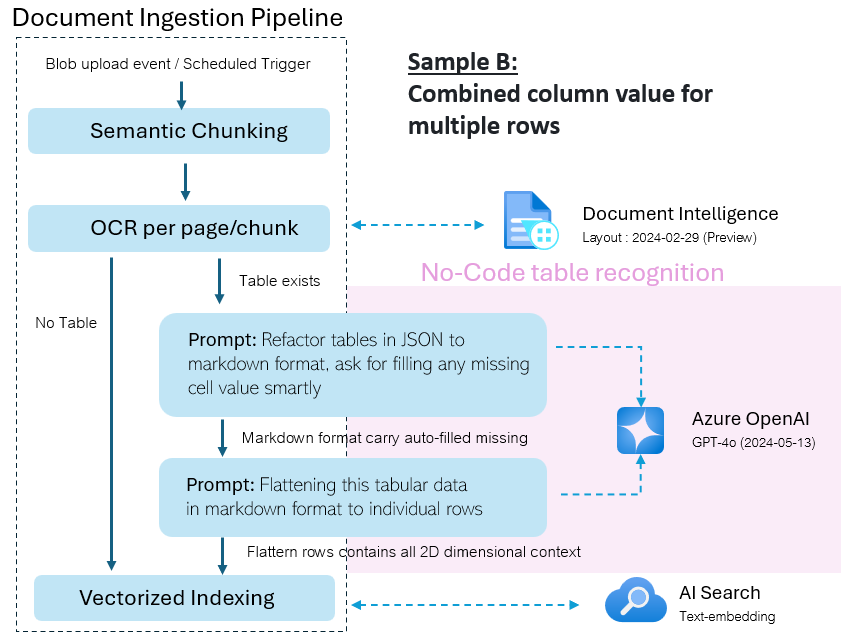
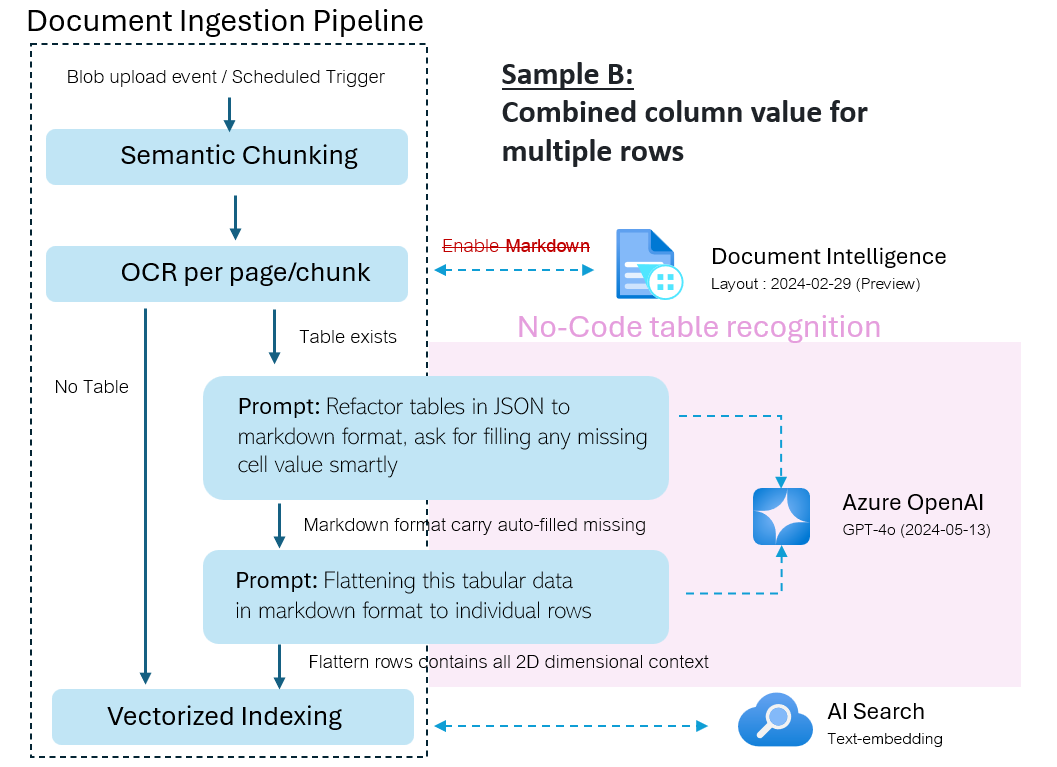
release 1.0

diff --git a/README.md b/README.md
@@ -1,12 +1,13 @@
 # No-Code Hacks for Tackling Non-Standard Table Recognition in GenAI
 ![story](/screenshot/story.png)
-## Challenge of data extraction accuracy from non-standard tables
+
+# Challenge of data extraction accuracy from non-standard tables
 The year 2024 marks the second year of the new era of Gen AI. Many AI engineers recognize that the biggest challenge in RAG (Retrieval-Augmented Generation) search patterns is maintaining high accuracy in generated answers. This topic is very popular in the AI community because the quality of pre-processing in the document ingestion pipeline is crucial for accuracy. One major challenge is table recognition, specifically how to extract data relationships across multiple columns and sub-columns. For example, financial documents and global PSG reports often have non-standard table structures. These complexities make it essential to focus on improving pre-processing techniques to ensure high accuracy in generated answers.
 
-## No one shoe fits all
+# No one shoe fits all
 Intuitively, we might think that the GPT model can read the document directly. However, this is not the case. For extracting text-based data from documents, we need an OCR service like Azure Document Intelligence to help us read documents like PDFs or DOCs and transform the data into JSON format for pre-processing. However, we all know that there are over a billion document styles in the world. The challenge for OCR to recognize complicated tables and artistic layouts is an ongoing battle that cannot be resolved by one approach or a single model. Therefore, we must focus on pre-processing to refine the OCR results adaptively, especially for data represented in non-standard table layouts.
 
-## Non-Standard 2D Table Structures
+# Non-Standard 2D Table Structures
 Since 2022, I've been working on pre-processing document extraction pipelines, focusing on non-standard tables. Here are common patterns:
 - Combined columns in one row
 - Combined rows in one column
@@ -18,46 +19,63 @@ Since 2022, I've been working on pre-processing document extraction pipelines, f
   ![nonstandardtable](/screenshot/nonstandardtable.png)
 
 You might wonder, if a cell can be located by (x, y), doesn't that make it a standard 2D table? Actually, not quite. Standard 2D tables have a fixed number of rows and columns, whereas non-standard tables have a dynamic number of rows and columns. For example, a 3x4 table with 12 cells is standard. If you observe more or fewer cells, it becomes non-standard.
- 
-## No more coding in the GenAI era
+
+# No more coding in the GenAI era
 In the past, many approaches to tackling non-standard table extraction were based on programming. These methods worked, but you had to constantly maintain the codebase to support new non-standard table layouts that your existing code couldn't recognize. Now, by leveraging the power of **GPT-4o 2024-05-13** and the latest **2024-02-29 preview** model from Azure Document Intelligence, your non-standard table recognition mechanism can evolve to the next level, a **NO-CODE** approach.
 
-## De-normalizing Tables by Prompt Engineering
+# Retain the 2D Dimensional Correlation in Markdown format
+![di_layout_markdown](/screenshot/di_layout_markdown.png)
+
+# Why De-normalizing tables matters?
 ![maths_qna](/screenshot/maths_qna.png)
 
 Although LLM models are now capable of reading data written in markdown and JSON formats and understanding data correlation relationships, this is not the best approach since the data relationships are still stored implicitly. For example, if a child asks their mother what time it is, the mother can give two answers: the first one is "7 o'clock," and the second one is "(24-3)/3." Which answer is the most straightforward and least confusing? Definitely, "7 o'clock" because it is directly in language, with no math involved. Therefore, if we can convert data relationships into clear English statements, LLM models can handle them with minimal effort, perform faster, and deliver the highest accuracy. The diagram below illustrates this refactorization:
 
-## Table Transformation Flow
+# Table Transformation Flow
 ![demormalizing](/screenshot/denormalizing.png)
 
 Although we mentioned no code is required, it doesn't mean this can be achieved through configuration alone. We still need to **write a smart prompt** to instruct GPT-4o to perform the tasks that coding would typically handle.
 
-#### System message 
+### System message 
 ```
 - you are ai assistant help to read given data from user in markdown format and answer the user query. if the answer going to respond to user is based on the data in table format, please refer to the markdown sample below for how the tabular data look like.\n
  ---tabular data in markdown format\n
-    {{place a few shot example to let openai follow the example as reference}}
+    *{{place a few shot example to let openai follow the example as reference}}*
  ---\n 
 ```
-#### Prompt
+### Prompt
 ```
 flattening this table but retain any chinese words which correlated to the english words as reference, given this
 ---tabular data in markdown format\n
-    {{markdown context extracted from document intelligence}}
+    *{{markdown context extracted from document intelligence}}*
 ---\n
 ```
-Using the prompt and system message template above, GPT-4o can read content in markdown format and flatten data into row-based statements. The trick we use here is to ask GPT-4o to automatically refill any missing cell values based on its understanding of the markdown of non-standard 2D table structures while de-normalizing all the rows against their columns. Furthermore, the prompt instructs GPT-4o to mark any generated cell value with a watermark "{{auto-fill}}". This watermark allows us to recognize that this cell value is artificially generated, notifying us to double-check this value in our evaluation pipeline.
+### GPT-4o model parameters
+```
+*temperature = 0.4 + top_p = 0.4* for flatterning markdown to row-based single sentence in precise manner
+
+*temperature = 0.6 + top_p = 0.5* for converting JSON to markdown and auto fill missing cell value in creative manner
+```
+Using the prompt and system message template above, GPT-4o can read content in markdown format and flatten data into row-based statements. The trick we use here is to ask GPT-4o to automatically refill any missing cell values based on its understanding of the markdown of non-standard 2D table structures while de-normalizing all the rows against their columns. Furthermore, the prompt instructs GPT-4o to mark any generated cell value with a watermark **"{auto-fill}"**. This watermark allows us to recognize that this cell value is artificially generated, notifying us to double-check this value in our evaluation pipeline.
  
+After GPT-4o flattens the data, we obtain a set of single statements that encompass all related information, including the table name and row item context in relation to its columns. 
 
-After GPT-4o flattens the data, we obtain a set of single statements that encompass all related information, including the table name and row item context in relation to its columns. This row-based format helps LLM models understand the semantic relationships between all data segments (row items against all columns). Additionally, consolidating all related data into one statement enhances the confidence score in AI search results, as the indexing algorithm is based on similarity.
+### Row-based single sentence
+```
+Property and Equipment, Net: At September 30, 2009, land is $3,190\n
+Property and Equipment, Net: At September 30, 2010, buildings and leasehold improvements is $19,987\n
+```
+This row-based format helps LLM models understand the semantic relationships between all data segments (row items against all columns). Additionally, consolidating all related data into one statement enhances the confidence score in AI search results, as the indexing algorithm is based on similarity.
 
-## Sample A: Combined row item across columns and sub-column
+---
+
+# Sample A: Combined row item across columns and sub-column
 
 ![samplea](/screenshot/samplea.png)
 
 ![samplea_logic](/screenshot/samplea_logic.png)
 
-### Sample A: Experiment in Azure AI Studio (Chat playground)
+## Sample A: Experiment in Azure AI Studio (Chat playground)
 1. Open Azure AI Studio (Chat playground), select gpt-4o 2024-05-13 and configure the model parameters: **temperature = 0.4, top_p = 0.4**
 2. Copy the [system_message for sample A](/samplea/system_message.txt) and set it as system message in Chat playground
 3. Open  [di_output_slim.json](/samplea/di_output_slim.json), copy the whole string of analyzeResult.content
@@ -77,8 +95,9 @@ After GPT-4o flattens the data, we obtain a set of single statements that encomp
 
 ![samplea_qna_fact](/screenshot/samplea_qna_fact.png)
 
+---
 
-## Sample B: Combined column value for multiple rows
+# Sample B: Combined column value for multiple rows
 ![sampleb](/screenshot/sampleb.png)
 This table looks more complicated that we need to ask GPT-4o twice
 - 1st call: send analyzeResult.tables to GPT-4o, convert to markdown and auto filling the missing cell value
@@ -93,8 +112,8 @@ After the 1st call, the missing cell value is filled smartly by GPT-4o and with 
 ![sampleb_flattern_autofill](/screenshot/sampleb_flattern_autofill.png)
 
 
-### Sample B: Experiment in Azure AI Studio (Chat playground)
-1. Open Azure AI Studio (Chat playground), select gpt-4o 2024-05-13 and configure the model parameters: **temperature = 0.6, top_p = 0.5**
+## Sample B: Experiment in Azure AI Studio (Chat playground)
+1. Open Azure AI Studio (Chat playground), select gpt-4o 2024-05-13 and configure the model parameters: **max_tokens=4096, temperature = 0.6, top_p = 0.5**
 2. Copy the [1st system_message for sample B](/sampleb/system_message_1stcall.txt) and set it as system message in Chat playground
 3. Open [di_output_slim.json](/sampleb/di_output_slim.json), copy the whole tables array from analyzeResult.tables
 4. Paste the whole table array to Chat playground and run it, no any additional prompt is needed, just like [prompt_1stcall](/sampleb/prompt_1stcall.txt) 
@@ -110,7 +129,11 @@ After the 1st call, the missing cell value is filled smartly by GPT-4o and with 
 
 ![sampleb_qna_fact](/screenshot/sampleb_qna_fact.png)
 
-## Closing
-In summary, recognizing non-standard tables is a big challenge in AI, but with the right tools and techniques, we can make significant progress. 
+
+
+# Closing
+## In summary, recognizing non-standard tables is a big challenge in AI, but with the right tools and techniques, we can make significant progress. 
+ References
+ - [Analyze complex documents with Azure Document Intelligence Markdown Output and Azure OpenAI](https://techcommunity.microsoft.com/t5/ai-azure-ai-services-blog/analyze-complex-documents-with-azure-document-intelligence/ba-p/4080770)
 
 
